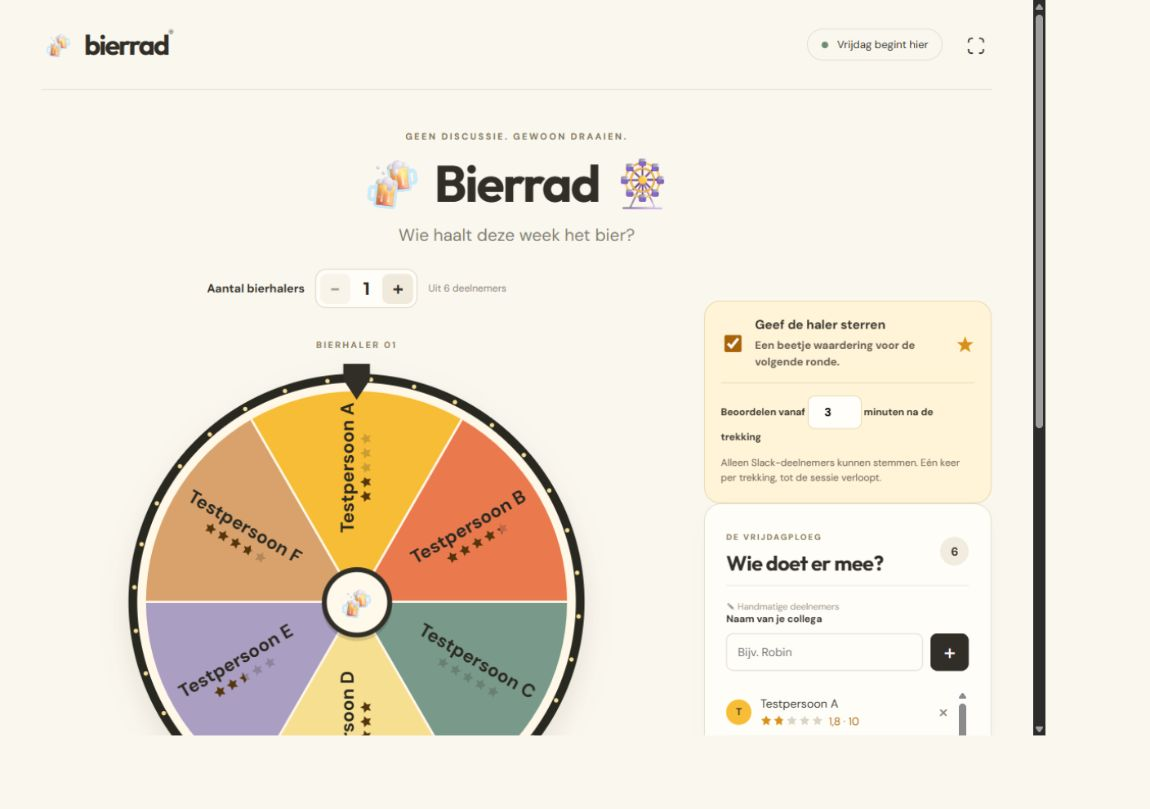
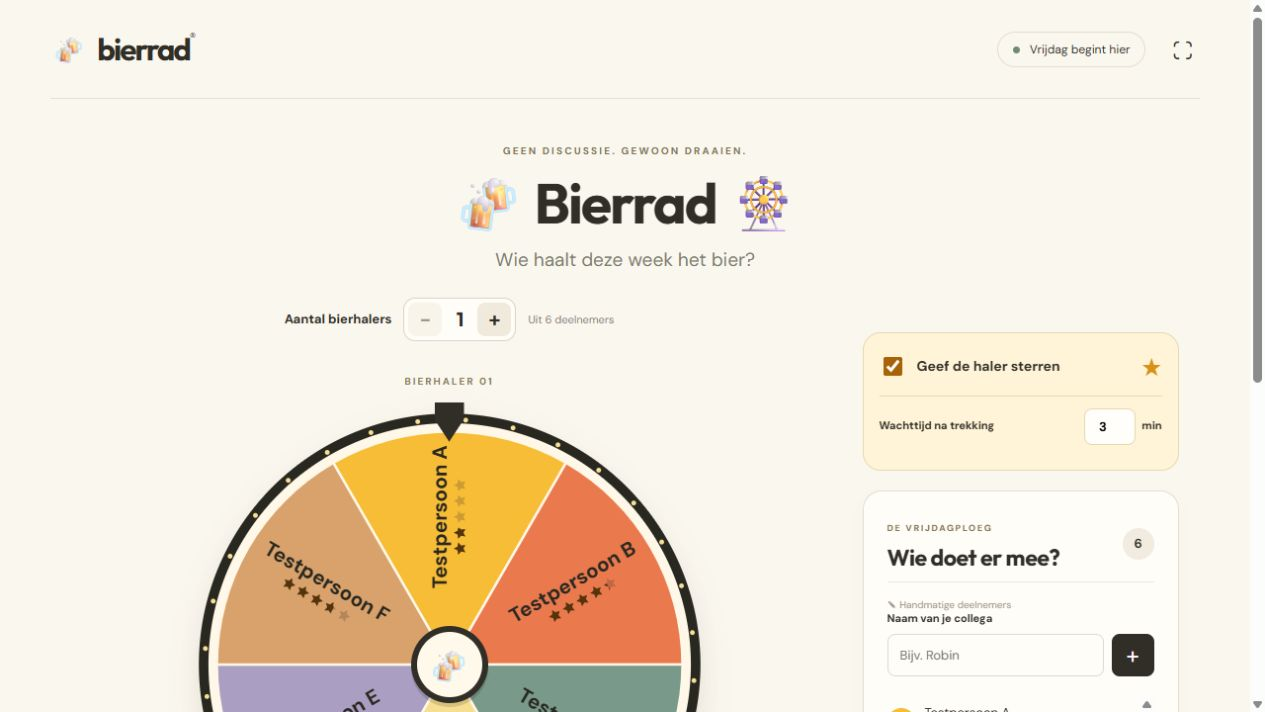
Simplify rating settings and separate participant card

diff --git a/src/components/RatingSettingsControl.tsx b/src/components/RatingSettingsControl.tsx
@@ -25,7 +25,6 @@ export function RatingSettingsControl({
           <strong>
             {defaults ? "Beoordelingen standaard aan" : "Geef de haler sterren"}
           </strong>
-          <small>Een beetje waardering voor de volgende ronde.</small>
         </span>
         <span className="rating-settings-icon" aria-hidden="true">
           ★
@@ -34,28 +33,27 @@ export function RatingSettingsControl({
       {value.enabled && (
         <div className="rating-delay">
           <label>
-            Beoordelen vanaf{" "}
-            <input
-              type="number"
-              min="1"
-              max="30"
-              value={value.delayMinutes}
-              onChange={(e) => {
-                const delayMinutes = Number(e.target.value);
-                if (
-                  Number.isInteger(delayMinutes) &&
-                  delayMinutes >= 1 &&
-                  delayMinutes <= 30
-                )
-                  onChange({ ...value, delayMinutes });
-              }}
-            />{" "}
-            minuten na de trekking
+            <span>Wachttijd na trekking</span>
+            <span className="rating-delay-value">
+              <input
+                aria-label="Wachttijd na de trekking in minuten"
+                type="number"
+                min="1"
+                max="30"
+                value={value.delayMinutes}
+                onChange={(e) => {
+                  const delayMinutes = Number(e.target.value);
+                  if (
+                    Number.isInteger(delayMinutes) &&
+                    delayMinutes >= 1 &&
+                    delayMinutes <= 30
+                  )
+                    onChange({ ...value, delayMinutes });
+                }}
+              />
+              <span>min</span>
+            </span>
           </label>
-          <small>
-            Alleen Slack-deelnemers kunnen stemmen. Eén keer per trekking, tot
-            de sessie verloopt.
-          </small>
         </div>
       )}
     </fieldset>

diff --git a/src/styles.css b/src/styles.css
@@ -1629,12 +1629,15 @@ code.channel-view-link {
 }
 .rating-settings {
   margin: 0;
-  padding: 18px;
+  padding: 16px;
   border: 1px solid var(--rating-border);
   border-radius: 18px;
   background: var(--rating-soft);
   min-width: 0;
   text-align: left;
+}
+.sidebar > .rating-settings {
+  margin-bottom: 20px;
 }
 .rating-toggle {
   display: flex;
@@ -1652,13 +1655,6 @@ code.channel-view-link {
   display: block;
   font-size: 14px;
 }
-.rating-toggle small {
-  display: block;
-  margin-top: 4px;
-  font-size: 12px;
-  line-height: 1.5;
-  color: #686053;
-}
 .rating-settings-icon {
   margin-left: auto;
   color: var(--rating-gold);
@@ -1666,25 +1662,30 @@ code.channel-view-link {
 }
 .rating-delay {
   border-top: 1px solid var(--rating-border);
-  margin-top: 14px;
-  padding-top: 14px;
+  margin-top: 12px;
+  padding-top: 12px;
   font-size: 13px;
   line-height: 1.8;
 }
+.rating-delay label {
+  display: flex;
+  align-items: center;
+  justify-content: space-between;
+  flex-wrap: wrap;
+  gap: 8px;
+}
+.rating-delay-value {
+  display: flex;
+  align-items: center;
+  gap: 6px;
+}
 .rating-delay input {
-  width: 60px;
+  width: 52px;
   padding: 6px 8px;
   border-radius: 8px;
   border: 1px solid var(--rating-border);
   background: #fffefa;
   text-align: center;
-}
-.rating-delay > small {
-  display: block;
-  margin-top: 8px;
-  color: #686053;
-  font-size: 11px;
-  line-height: 1.6;
 }
 .channel-rating-options {
   max-width: 520px;

diff --git a/src/tests/ratings.test.ts b/src/tests/ratings.test.ts
@@ -31,7 +31,7 @@ test("fractional star graphics preserve averages, accessible counts and unique c
   assert.ok(widths.some((w) => Math.abs(w - 6) < 0.001));
 });
 
-test("ratings start disabled and the enabled control explains the delay and one vote rule", () => {
+test("ratings start disabled and the enabled control provides the delay", () => {
   const off = renderToStaticMarkup(
     createElement(RatingSettingsControl, { onChange() {} }),
   );
@@ -43,8 +43,7 @@ test("ratings start disabled and the enabled control explains the delay and one 
     }),
   );
   assert.ok(on.includes('value="3"'));
-  assert.ok(on.includes("minuten na de trekking"));
-  assert.ok(on.includes("Eén keer per trekking"));
+  assert.ok(on.includes("Wachttijd na trekking"));
 });
 
 test("every wheel theme renders fractional stars under both orientations of a name without choosing winners", () => {

diff --git a/docs/ratings-review.md b/docs/ratings-review.md
@@ -28,6 +28,7 @@ Gecontroleerd in de ingebouwde browser, op desktop en een smal scherm (ongeveer 
 | Vorm | Bevinding |
 | --- | --- |
 | Bier, instellingen aan / uit | Warm gele kaart; uit verbergt wachttijd en sterren |
+| Compacte beoordelingsinstellingen | Alleen schakelaar en wachttijd; 20 pixels afstand tot het deelnemersvak op desktop en mobiel, zonder horizontale overloop |
 | Koffie, twee winnaars | Afzonderlijke sterrenkeuze per haler; versturen pas na alle keuzes |
 | Water, één winnaar op mobiel | Aqua kleuren, vijf aanraakbare keuzes; geen horizontale pagina-overloop |
 | Gemiddelden 1,8 / 4,3 / 5,0 / geen beoordelingen | Werkelijk gedeeltelijk ingekleurde SVG-sterren; Nederlandse getallen en aantallen in de lijst |
